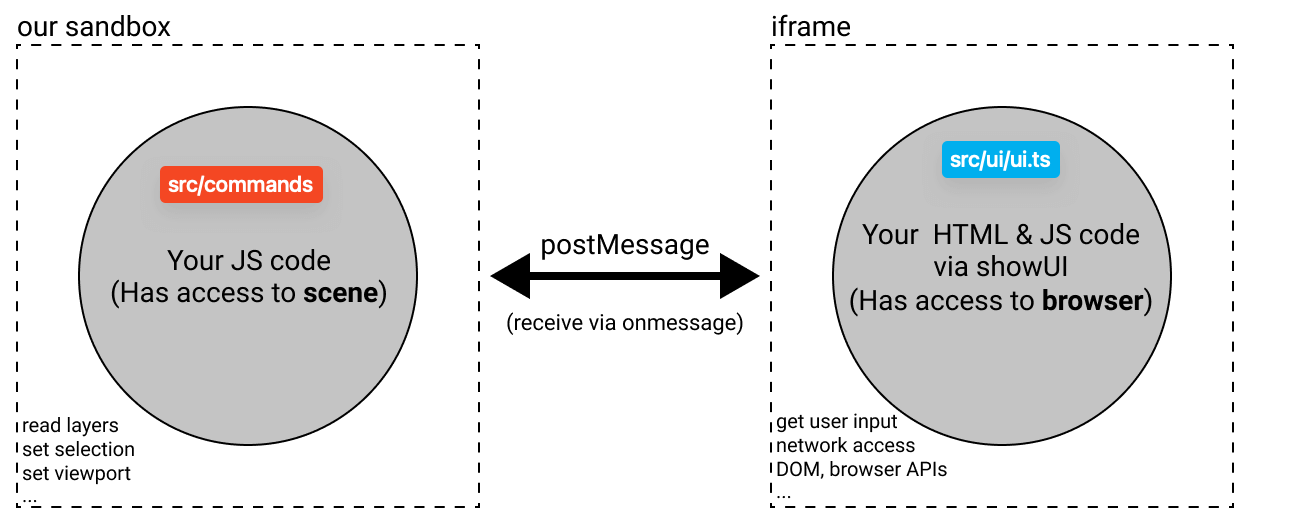
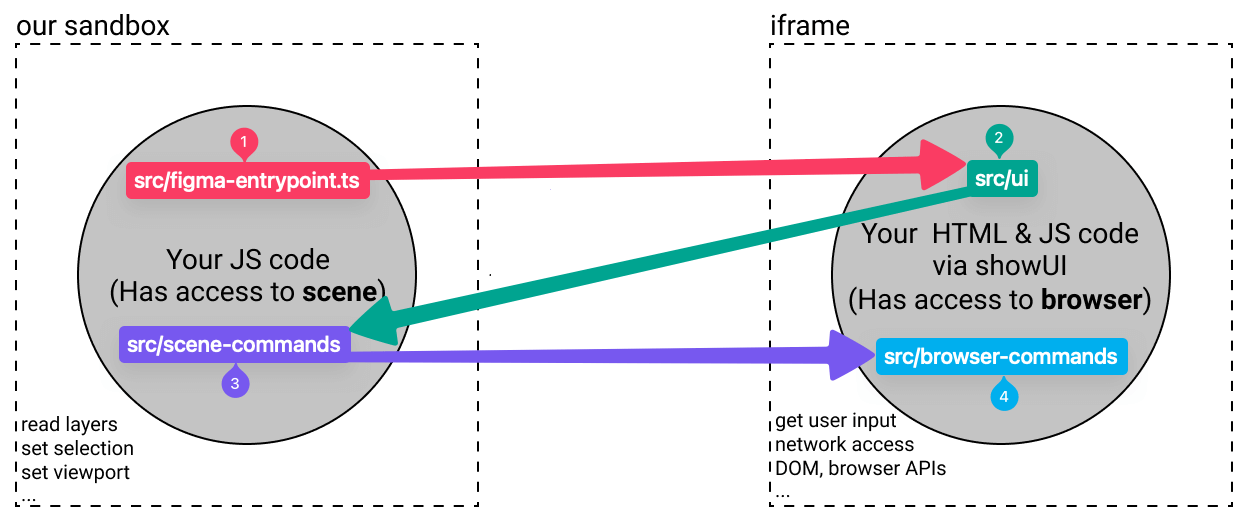
docs: clear out tthe software architecture approach and add "Illustrative working examples" readme section

diff --git a/src/commands-setup/CommandsMapping.ts b/src/commands-setup/CommandsMapping.ts
@@ -7,7 +7,7 @@ import { CommandHandler } from "./CommandHandler";
 
 // 👋 Add below your new commands.
 // Define its arbitrary key and its corresponding Handler class.
-// Tip: Declare your Command and CommandHandler classes creating a folder inside the `.src/sandbox-commands` one 😊
+// Tip: Declare your Command and CommandHandler classes creating a folder inside the `src/scene-commands` or `src/browser-commands` ones depending on the things you need to get access to (see the README explanation) 😊
 export const CommandsMapping: Record<string, () => CommandHandler<Command>> = {
   cancel: () => new CancelCommandHandler(figma),
   createShapes: () => new CreateShapesCommandHandler(figma),

diff --git a/README.md b/README.md
@@ -75,29 +75,107 @@ document.addEventListener("click", function (event: MouseEvent) {
 });
 ```
 
-This `postMessage(new CancelCommand());` function call is needed due to [how Figma Plugins run](https://www.figma.com/plugin-docs/how-plugins-run/), that is, communicating ourselves between these 2 elements:
+This `postMessage(new CancelCommand());` function call is needed due to [how Figma Plugins run](https://www.figma.com/plugin-docs/how-plugins-run/), that is, communicating ourselves between the following types of elements:
 
-- The [`src/ui/ui.ts`](src/ui/ui.ts) file, which runs in the iframe with access to the browser
-- The [`src/sandbox-commands`](src/scene-commands) running inside the Figma sandbox with access to the different Figma scene nodes and so on
+![Codely Figma Plugin Skeleton Architecture](assets/figma-plugins-architecture.png 'There are 2 different "worlds". The Figma scene one, and the browser iframe one')
 
-![how Figma Plugins run](assets/figma-plugins-architecture.png)
+1. The [`src/figma-entrypoint.ts`](src/figma-entrypoint.ts): As described before, in general this is the file that Figma will execute once the user runs your plugin. However, there are multiple scenarios depending on the type of plugin:
+   - **Plugins with a single use case**:
+
+     ![Single Use Case Figma Plugins does not have a dropdown menu](assets/single-use-case-figma-plugin.png)
+     - **Plugins with UI**: If you do not have a `"menu"` key declared in the [`manifest.json`](manifest.json), but a `"ui"` one, Figma will render the [`src/ui/ui.html`](src/ui/ui.html) which is bundled together with the [`src/ui/ui.ts`](src/ui/ui.ts) and [`src/ui/ui.css`](src/ui/ui.css). That UI will run inside the Figma Browser iframe, and you will be able to execute Commands as in the previous example, that is, using the `postMessage` method from the `ui.ts`. These commands will arribe to this `figma-entrypoint.ts` in order to be executed. You have an example for the "Cancel" button of the plugin UI mentioned before: [`CancelCommand`](src/scene-commands/cancel/CancelCommand.ts) mapped in the [`CommandsMapping`](src/commands-setup/CommandsMapping.ts#L12) to the [`CancelCommandHandler`](src/scene-commands/cancel/CancelCommandHandler.ts) and tested out in the [`CancelCommandHandler.test`](tests/scene-commands/CancelCommandHandler.test.ts).
+     - **Plugins without UI**: If you do not have either a `"menu"` key declared in the [`manifest.json`](manifest.json), nor a `"ui"` one, Figma will render the [`src/figma-entrypoint.ts`](src/figma-entrypoint.ts) and you will be able to execute Commands directly from there with the `handleCommand` method. These commands will arribe to this `figma-entrypoint.ts` in order to be executed.
+   - **Plugins with multiple use cases**:
+
+     ![Multiple Use Cases Figma Plugins does have a dropdown menu](assets/multiple-use-cases-figma-plugin.png)
+
+     You can define several use cases will be defined as `menu` items declared in the [`manifest.json`](manifest.json). In this case, this entrypoint will directly execute the Command Handler mapped in the [`src/commands-setup/CommandsMapping.ts`](src/commands-setup/CommandsMapping.ts) that corresponds to the `menu.[].command` key. You have an example for instance for the `createShapes` Command which is mapped to the [`src/scene-commands/create-shapes/CreateShapesCommandHandler.ts`](src/scene-commands/create-shapes/CreateShapesCommandHandler.ts).
+     One of this use cases can actually be to show the UI. You can see it [declared with the `showUi` command name](manifest.json#L13) and [handled as a particular case](src/figma-entrypoint.ts#L11).
+2. The Browser iframe Figma creates for us in order to run the plugin UI. This iframe is needed in order to gain access to the browser APIs in order to perform HTTP requests for instance.
+3. The Figma scene exposed in order to create elements or access to the different layers from the [`src/scene-commands`](src/scene-commands) which runs inside the Figma sandbox.
+4. The previous commands could need some information from the external world, so they must send out a command to be handled inside the iframe. You can see an example of this in the [`PaintCurrentUserAvatarCommandHandler`](src/scene-commands/paint-current-user-avatar/PaintCurrentUserAvatarCommandHandler.ts). All you have to do to perform the request is posting a `NetworkRequestCommand`:
+   ```typescript
+   this.figma.ui.postMessage(
+     new NetworkRequestCommand("http://example.com/some/api/endpoint", "text")
+   );
+   ```
+   And listen for the response:
+   ```typescript
+   return new Promise((resolve) => {
+     this.figma.ui.onmessage = async (message) => {
+       await this.doThingsWith(message.payload);
+       resolve();
+     };
+   });
+   ```
 
 #### 🆕 How to add new commands
 
 If you want to add new capabilities to your plugin, we have intended to allow you to do so without having to worry about all the TypeScript stuff behind the Commands concept. It is as simple as:
 
-1. Create a folder giving a name to your Command. Example: [`src/sandbox-commands/cancel`](src/scene-commands/cancel)
+1. Create a folder giving a name to your Command. Example: [`src/scene-commands/cancel`](src/scene-commands/cancel)
 2. Create the class that will represent your Command.
-   - Example of the simplest Command you can think of (only provides semantics): [`src/sandbox-commands/cancel/CancelCommand.ts`](src/scene-commands/cancel/CancelCommand.ts)
-   - Example of a Command needing parameters: [`src/sandbox-commands/create-shapes/CreateShapesCommand.ts`](src/scene-commands/create-shapes/CreateShapesCommand.ts)
+   - Example of the simplest Command you can think of (only provides semantics): [`src/scene-commands/cancel/CancelCommand.ts`](src/scene-commands/cancel/CancelCommand.ts)
+   - Example of a Command needing parameters: [`src/scene-commands/create-shapes/CreateShapesCommand.ts`](src/scene-commands/create-shapes/CreateShapesCommand.ts)
 3. Create the CommandHandler that will receive your Command and will represent the business logic behind it. Following the previous examples:
-   - [`src/sandbox-commands/cancel/CancelCommandHandler.ts`](src/scene-commands/cancel/CancelCommandHandler.ts)
-   - [`src/sandbox-commands/create-shapes/CreateShapesCommandHandler.ts`](src/scene-commands/create-shapes/CreateShapesCommandHandler.ts)
+   - [`src/scene-commands/cancel/CancelCommandHandler.ts`](src/scene-commands/cancel/CancelCommandHandler.ts)
+   - [`src/scene-commands/create-shapes/CreateShapesCommandHandler.ts`](src/scene-commands/create-shapes/CreateShapesCommandHandler.ts)
 4. Link your Command to your CommandHandler adding it to the [`src/commands-setup/CommandsMapping.ts`](src/commands-setup/CommandsMapping.ts)
 5. Send the command from [`src/ui/ui.ts`](src/ui/ui.ts) as shown previously: `postMessage(new CancelCommand());`
 
 ## 🌈 Features
 
+### ✨ Illustrative working examples
+
+In order to show the potential Figma Plugins have, we have developed several use cases:
+
+![Plugin menu with the 3 use cases](assets/plugin-use-cases.png)
+
+#### 👀 Shapes Creator Form
+
+![Shapes Creator Form](assets/shapes-creator-form-use-case.png)
+![Shapes Creator Form Result](assets/shapes-creator-form-use-case-result.png)
+
+Demonstrative purposes:
+
+- Render a UI allowing it to be modular and scalable (Webpack bundling working in Figma thanks to JS inline)
+- How to communicate from the Figma Browser iframe where the UI lives to the Figma Scene Sandbox in order to execute commands like the `createShapes` one which require to modify the viewport, create and select objects, and so on
+- Work with the Figma Plugins API randomizing multiple variables to make it a little more playful:
+  - The shapes to create (rectangles and ellipses)
+  - The rotation of each shape
+  - The color of the shapes
+
+####  ⌨ Shapes Creator Parametrized
+
+You can launch parametrized menu commands from the Figma Quick Actions search bar:
+
+![Shapes Creator Parametrized in the Quick Actions search bar](assets/shapes-creator-parametrized-use-case.png)
+
+It even allows you to configure optional parameters and suggestions for them:
+
+![Filtering our the type of shapes parameter value](assets/shapes-creator-parametrized-suggestions-use-case.png)
+
+Demonstrative purposes:
+
+- Take advantage of the Parametrized Figma Plugins in order to offer a simple UI integrated with the Figma ecosystem without having to implement any HTML or CSS
+- Reuse the very same use case ([`CreateShapesCommandHandler`](src/scene-commands/create-shapes/CreateShapesCommandHandler.ts)) from multiple entry-points. That, is we are using that very same business logic class:
+  - Calling it [from the `ui.ts`](src/ui/ui.ts#L23) once the user clicks on the `create` button because we are executing the command with `postMessage(new CreateShapesCommand(count));`
+  - Configuring [the parametrized menu entry in the `manifest.json`](manifest.json#L14) with the very same `command` name [as mapped in the `CommandsMapping`](src/commands-setup/CommandsMapping.ts#L13), and the same parameters `key` as defined in [the command constructor](src/scene-commands/create-shapes/CreateShapesCommand.ts#L12)
+- Configure optional parameters and how they map to nullable TypeScript arguments
+- Specify suggestions for some parameter values that can be programmatically set. Example in [the `figma-entrypoint`](src/figma-entrypoint.ts#L28) for the `typeOfShapes` parameter.
+
+####  🎨 Paint current user avatar
+
+![How the use case paint out the avatar and its user name](assets/paint-current-user-avatar-use-case.png)
+
+Demonstrative purposes:
+
+- Communicate back from the Figma Scene Sandbox to the Figma Browser iframe in order to perform the HTTP request in order to get the actual user avatar image based on its URL due to not having access to browser APIs inside the `src/scene-commands` world
+- Define the architecture in order to have that HTTP request response handler defined in a cohesive way inside the actual use case which fires it. Example in the [`PaintCurrentUserAvatarCommandHandler`](src/scene-commands/paint-current-user-avatar/PaintCurrentUserAvatarCommandHandler.ts#L29).
+- Paint an image inside the Figma scene based on its binary information
+- Declare a more complex menu structure containing separators and sub-menu items
+- Loading the text font needed in order to create a text layer and position it relative to the image size
+ 
 ### ✅ Software development best practices
 
 Focus of all the decisions made in the development of this skeleton: Let you, the developer of the plugin that end users will install, **focus on implementing your actual use cases** instead of all the surrounding boilerplate ⚡
